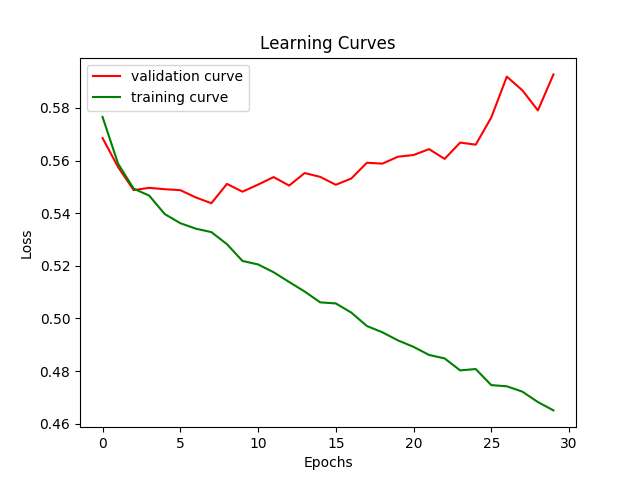
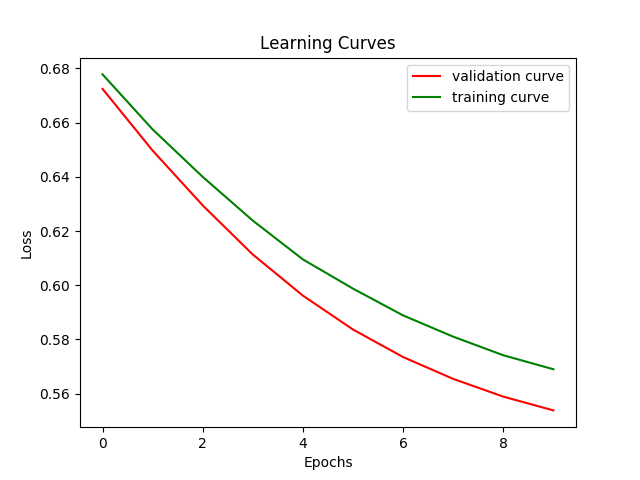
final architecture fine tuning

diff --git a/Speech_Text_Fusion/main.py b/Speech_Text_Fusion/main.py
@@ -178,8 +178,8 @@ torch.save(model.state_dict(), AUDIO_RNN_PATH)
 ###################################################################
 ###                     BINARY TASK
 ###################################################################
-EPOCHS_bin = 30
-lr_bin = 0.0001
+EPOCHS_bin = 10
+lr_bin = 0.000001
 #clip_bin_grad = 500
 
 data_loaders = (train_loader, valid_loader, test_loader)
